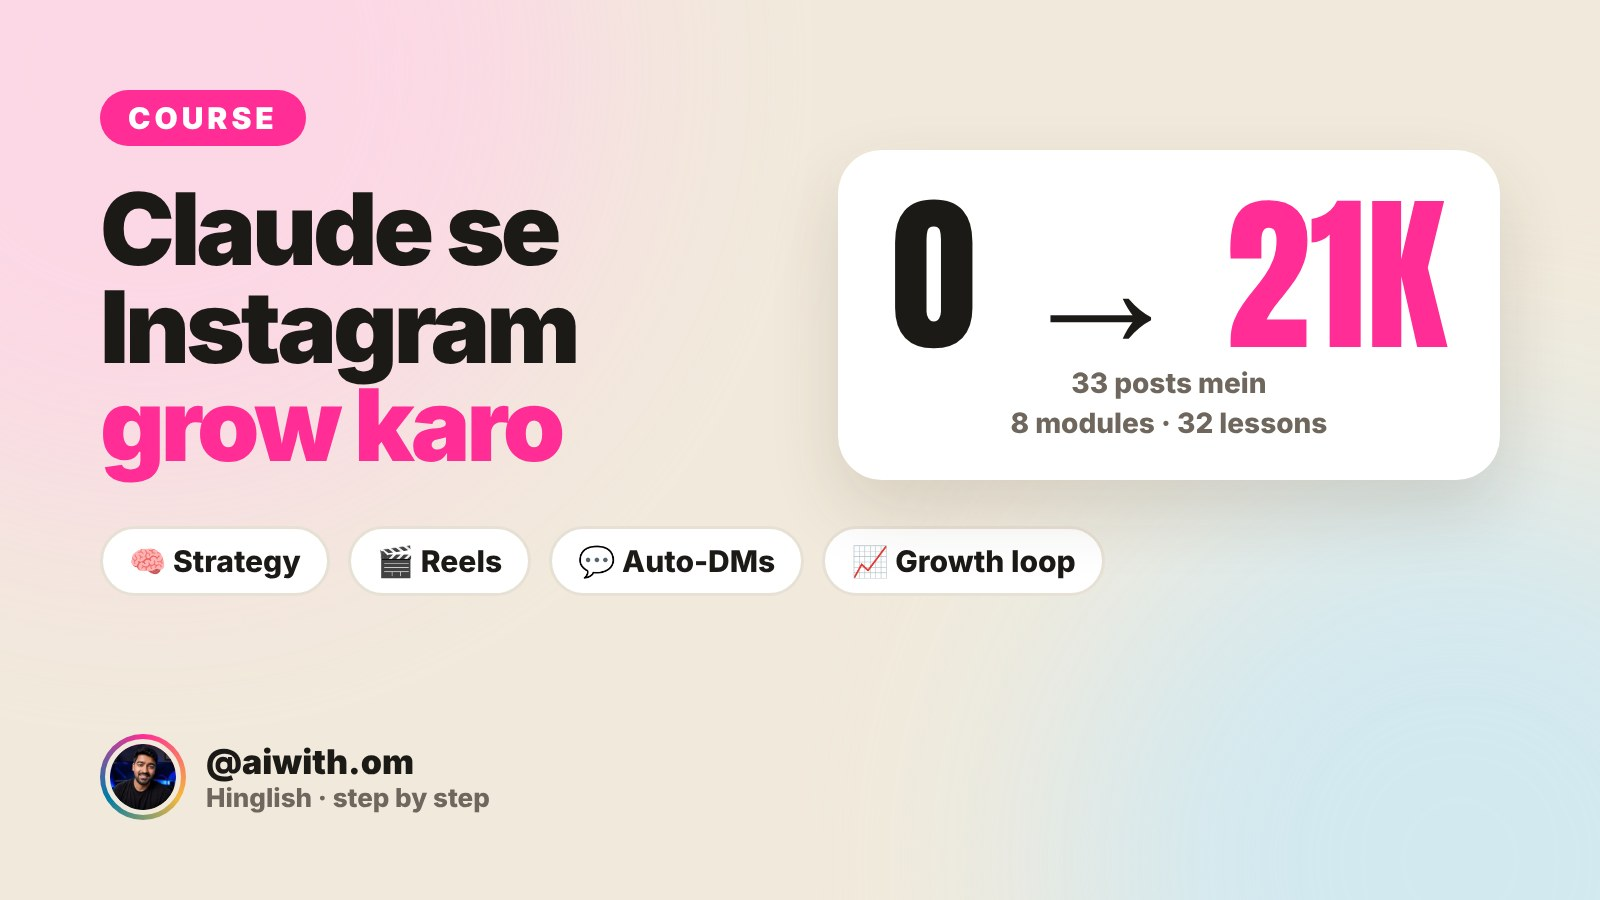
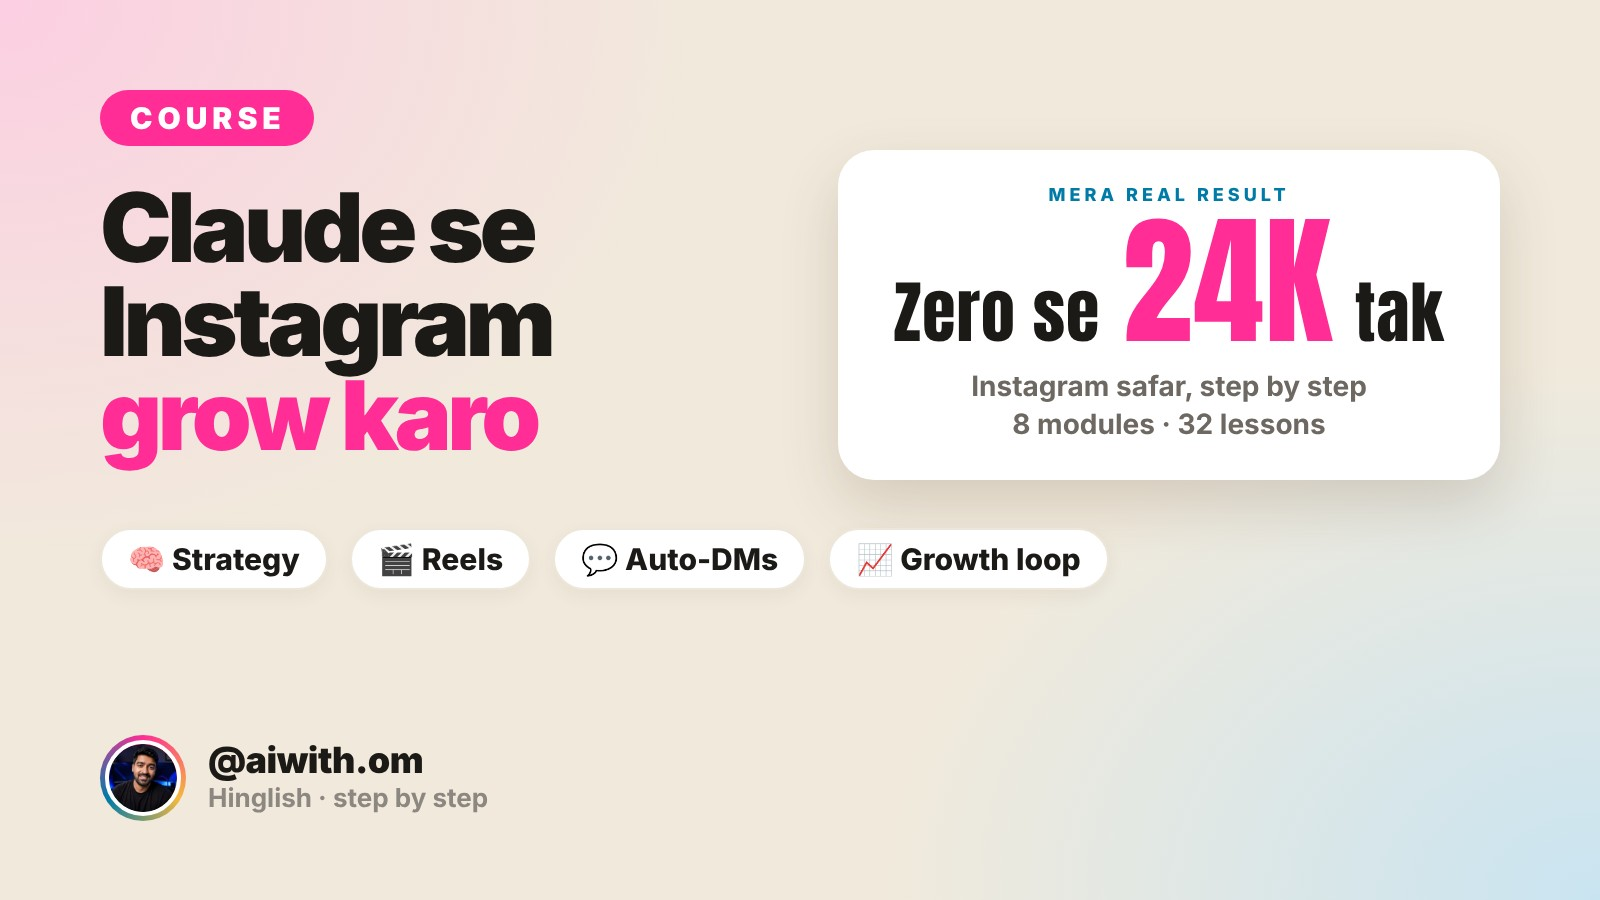
Course cover image: 'Zero se 24K tak' card (was 0 → 21K) + HTML source in tools/cover
Claude-Session: https://claude.ai/code/session_01FRkntsn99dcVeuniYwQkRT

diff --git a/tools/cover/course_cover.html b/tools/cover/course_cover.html
@@ -1,0 +1,36 @@
+<!doctype html><html><head><meta charset="utf-8">
+<!-- Source of freebies/course.jpg (1600x900). Edit the 24K below, open in Chromium at 1600x900, screenshot, save as freebies/course.jpg (JPEG q90). -->
+<link href="https://fonts.googleapis.com/css2?family=Anton&family=Inter:wght@600;700;800;900&display=swap" rel="stylesheet">
+<style>
+*{box-sizing:border-box;margin:0}
+body{width:1600px;height:900px;overflow:hidden;font-family:Inter,sans-serif;color:#1C1A17;
+ background:radial-gradient(1000px 800px at 0% 0%,#FCCFE2 0%,rgba(252,207,226,0) 72%),
+            radial-gradient(1000px 750px at 100% 100%,#C9E4F1 0%,rgba(201,228,241,0) 72%),#F1EADC;position:relative}
+.pill{position:absolute;left:100px;top:90px;background:#FF2D95;color:#fff;font:900 30px/1 Inter;letter-spacing:5px;padding:13px 28px 13px 30px;border-radius:40px}
+h1{position:absolute;left:100px;top:180px;font:900 96px/0.98 Inter;letter-spacing:-4.5px}
+h1 span{color:#FF2D95}
+.card{position:absolute;left:838px;top:150px;width:662px;height:330px;background:#fff;border-radius:36px;
+ box-shadow:0 24px 60px rgba(60,40,20,.16);display:flex;flex-direction:column;align-items:center;justify-content:center;gap:6px}
+.big{font:400 142px/1 Anton;letter-spacing:1px;white-space:nowrap;display:flex;align-items:baseline;gap:22px}
+.big small{font:400 68px/1 Anton;color:#1C1A17}
+.big b{font-weight:400;color:#FF2D95}
+.sub{font:700 28px/1.35 Inter;color:#6E6862;text-align:center;margin-top:10px}
+.lbl{font:800 18px/1 Inter;letter-spacing:4px;color:#007BA7;text-transform:uppercase}
+.chips{position:absolute;left:100px;top:528px;display:flex;gap:22px}
+.chip{background:#fff;border:2px solid #EDE6DA;border-radius:40px;padding:14px 26px;font:800 30px/1 Inter;display:flex;align-items:center;gap:12px;box-shadow:0 6px 18px rgba(60,40,20,.06)}
+.me{position:absolute;left:100px;top:735px;display:flex;align-items:center;gap:22px}
+.av{width:86px;height:86px;border-radius:50%;padding:5px;background:conic-gradient(#FF2D95,#F5B83D,#007BA7,#FF2D95)}
+.av img{width:100%;height:100%;border-radius:50%;border:4px solid #fff;object-fit:cover;display:block}
+.me b{display:block;font:900 36px/1.1 Inter;letter-spacing:-.5px}
+.me span{font:700 26px/1.3 Inter;color:#8C8780}
+</style></head><body>
+<div class="pill">COURSE</div>
+<h1>Claude se<br>Instagram<br><span>grow karo</span></h1>
+<div class="card">
+  <div class="lbl">Mera real result</div>
+  <div class="big"><small>Zero se</small><b>24K</b><small>tak</small></div>
+  <div class="sub">Instagram safar, step by step<br>8 modules · 32 lessons</div>
+</div>
+<div class="chips"><span class="chip">🧠 Strategy</span><span class="chip">🎬 Reels</span><span class="chip">💬 Auto-DMs</span><span class="chip">📈 Growth loop</span></div>
+<div class="me"><div class="av"><img src="../../freebies/avatar.png"></div><div><b>@aiwith.om</b><span>Hinglish · step by step</span></div></div>
+</body></html>
